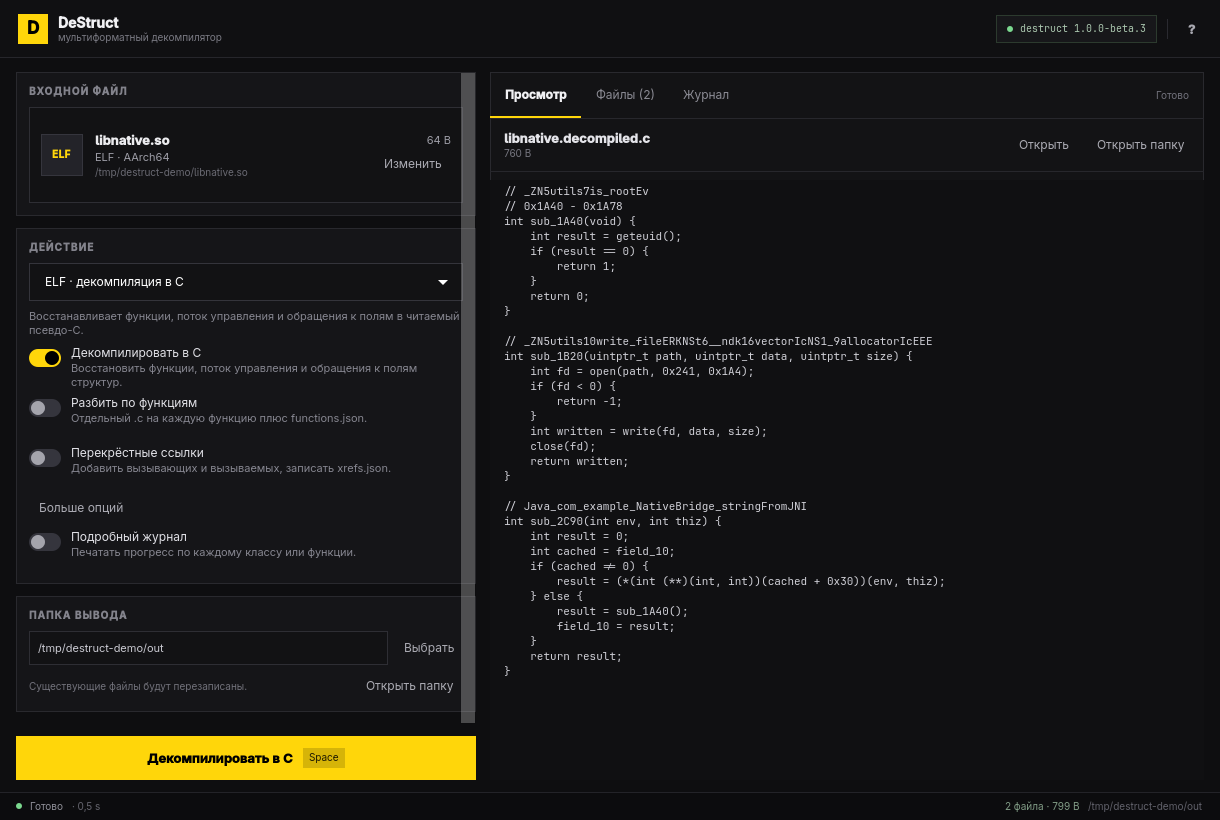
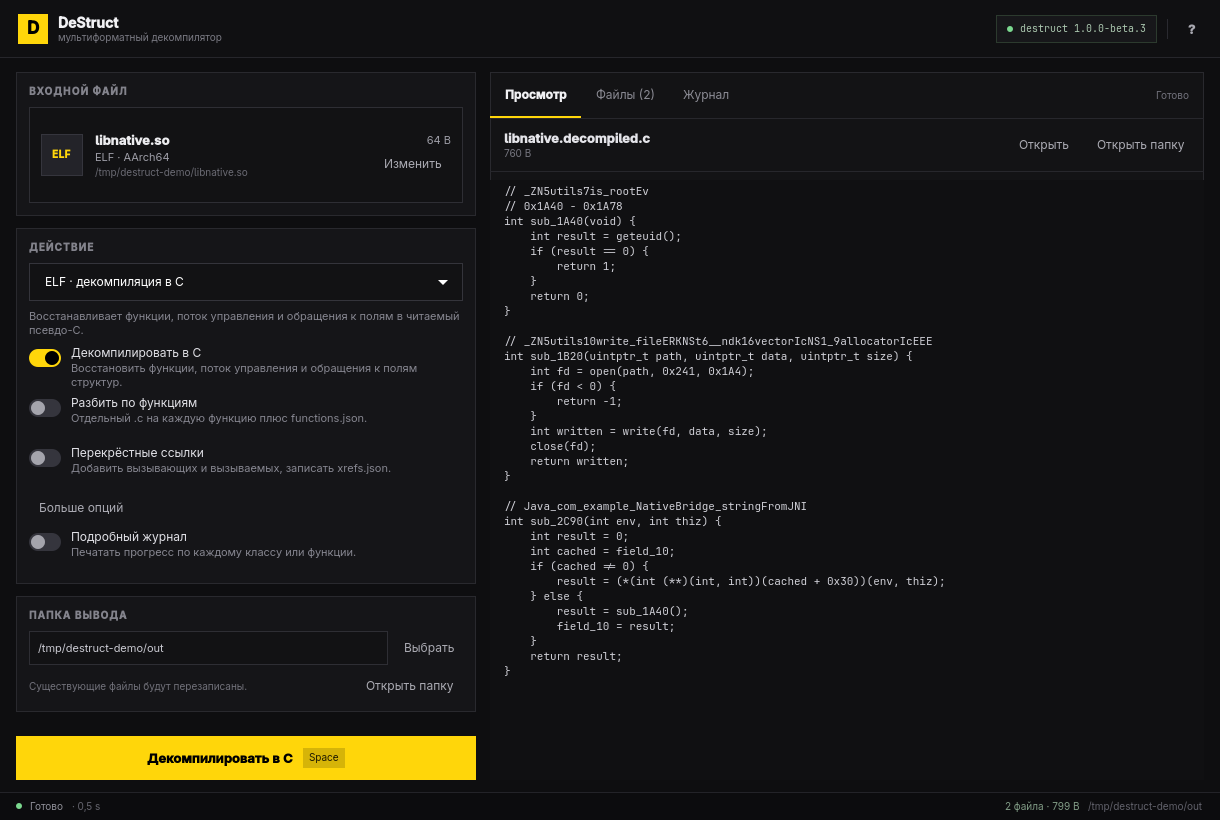
Show the left scrollbar only when it is needed

Changed region(s): [[0.3738, 0.0915, 0.4049, 0.8841]]

diff --git a/src/Main.qml b/src/Main.qml
@@ -342,7 +342,7 @@ ApplicationWindow {
                             clip: true
                             contentWidth: availableWidth
                             ScrollBar.horizontal.policy: ScrollBar.AlwaysOff
-                            ScrollBar.vertical.policy: ScrollBar.AlwaysOn
+                            ScrollBar.vertical.policy: ScrollBar.AsNeeded
 
                             ColumnLayout {
                                 width: leftScroll.availableWidth
